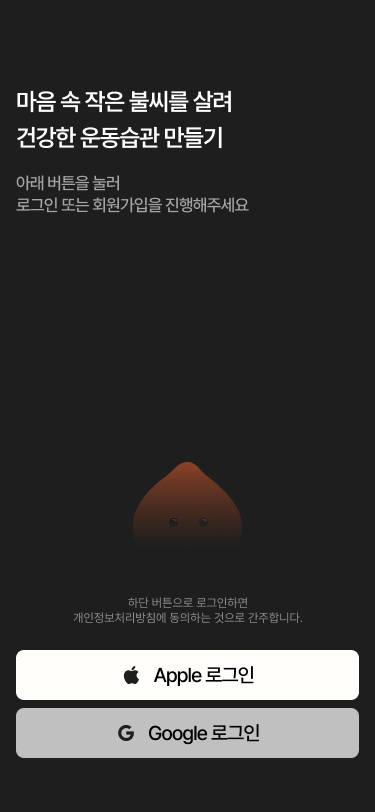
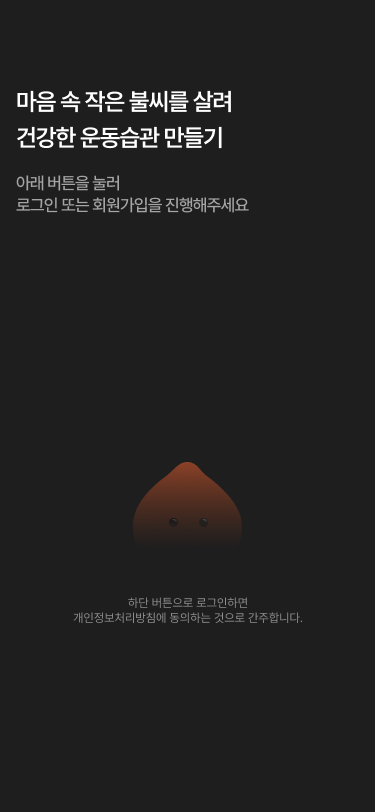
랜딩1페이지 수정 완료

Changed region(s): [[0.0293, 0.8005, 0.968, 0.9544]]

diff --git a/lib/pages/auth/landing_page.dart b/lib/pages/auth/landing_page.dart
@@ -1,5 +1,9 @@
 import 'package:flutter/material.dart';
 import 'package:go_router/go_router.dart';
+import 'package:provider/provider.dart';
+
+import '../../widgets/social_button.dart';
+import '../../viewmodels/auth_viewmodel.dart';
 
 class LandingPage extends StatelessWidget {
   const LandingPage({super.key});
@@ -9,75 +13,66 @@ class LandingPage extends StatelessWidget {
     return Scaffold(
       backgroundColor: const Color(0xFF121212),
       body: SafeArea(
-        child: Padding(
-          padding: const EdgeInsets.all(20),
-          child: Column(
-            crossAxisAlignment: CrossAxisAlignment.start,
-            children: [
-              const Spacer(),
-              Text(
-                "마음 속 작은 불씨를 살려\n건강한 운동습관 만들기",
-                style: Theme.of(
-                  context,
-                ).textTheme.headlineSmall?.copyWith(color: Colors.white),
+        child: Stack(
+          children: [
+            // ✔ 배경 이미지는 네가 준 sns_login.png를 그대로 사용
+            Positioned.fill(
+              child: Image.asset(
+                'assets/images/sns_login.png',
+                fit: BoxFit.cover,
               ),
-              const SizedBox(height: 24),
-              const Center(child: Text('🔥', style: TextStyle(fontSize: 96))),
-              const Spacer(),
-              _LoginBtn(
-                label: 'Apple 로그인',
-                onTap: () {
-                  /* TODO: 애플 로그인 */
-                },
-              ),
-              const SizedBox(height: 12),
-              _LoginBtn(
-                label: 'Google 로그인',
-                onTap: () {
-                  /* TODO: 구글 로그인 */
-                },
-                light: true,
-              ),
-              const SizedBox(height: 16),
-              SizedBox(
-                width: double.infinity,
-                child: OutlinedButton(
-                  onPressed: () => context.go('/onboarding/intro'),
-                  child: const Text('로그인 없이 시작하기'),
+            ),
+
+            // 하단 버튼/스킵 오버레이
+            Align(
+              alignment: Alignment.bottomCenter,
+              child: Padding(
+                padding: const EdgeInsets.fromLTRB(16, 0, 16, 16),
+                child: Column(
+                  mainAxisSize: MainAxisSize.min,
+                  children: [
+                    SocialButton.apple(
+                      label: 'Apple 로그인',
+                      onPressed: () {
+                        // TODO: signInWithApple() 연결
+                      },
+                      // iconAsset: 'assets/icons/apple.png',
+                    ),
+                    const SizedBox(height: 12),
+                    SocialButton.google(
+                      label: 'Google 로그인',
+                      onPressed: () {
+                        // TODO: signInWithGoogle() 연결
+                      },
+                      // iconAsset: 'assets/icons/google.png',
+                    ),
+                    const SizedBox(height: 8),
+                    // ✅ 맨 아래 Skip: 디바이스 온보딩 스킵 저장 후 홈으로
+                    TextButton(
+                      onPressed: () async {
+                        await context.read<AuthViewModel>().skipOnboarding();
+                        if (context.mounted) context.go('/home');
+                      },
+                      style: TextButton.styleFrom(
+                        padding: const EdgeInsets.symmetric(
+                          vertical: 6,
+                          horizontal: 12,
+                        ),
+                      ),
+                      child: const Text(
+                        '건너뛰기',
+                        style: TextStyle(
+                          color: Colors.white70,
+                          fontWeight: FontWeight.w600,
+                        ),
+                      ),
+                    ),
+                  ],
                 ),
               ),
-            ],
-          ),
+            ),
+          ],
         ),
-      ),
-    );
-  }
-}
-
-class _LoginBtn extends StatelessWidget {
-  final String label;
-  final VoidCallback onTap;
-  final bool light;
-  const _LoginBtn({
-    required this.label,
-    required this.onTap,
-    this.light = false,
-  });
-  @override
-  Widget build(BuildContext context) {
-    return SizedBox(
-      height: 52,
-      width: double.infinity,
-      child: ElevatedButton(
-        onPressed: onTap,
-        style: ElevatedButton.styleFrom(
-          backgroundColor: light ? Colors.white : Colors.black,
-          foregroundColor: light ? Colors.black : Colors.white,
-          shape: RoundedRectangleBorder(
-            borderRadius: BorderRadius.circular(12),
-          ),
-        ),
-        child: Text(label),
       ),
     );
   }

diff --git a/lib/widgets/social_button.dart b/lib/widgets/social_button.dart
@@ -1,0 +1,89 @@
+import 'package:flutter/material.dart';
+
+enum SocialBrand { apple, google }
+
+class SocialButton extends StatelessWidget {
+  final String label;
+  final VoidCallback onPressed;
+  final SocialBrand brand;
+
+  /// 브랜드 로고를 에셋으로 쓰고 싶으면 경로를 넘겨줘.
+  /// (없으면 기본 아이콘으로 표시)
+  final String? iconAsset;
+
+  final double height;
+  final double radius;
+
+  const SocialButton({
+    super.key,
+    required this.label,
+    required this.onPressed,
+    required this.brand,
+    this.iconAsset,
+    this.height = 52,
+    this.radius = 12,
+  });
+
+  /// 팩토리 생성자 (가독성)
+  factory SocialButton.apple({
+    Key? key,
+    required String label,
+    required VoidCallback onPressed,
+    String? iconAsset,
+  }) => SocialButton(
+    key: key,
+    label: label,
+    onPressed: onPressed,
+    brand: SocialBrand.apple,
+    iconAsset: iconAsset,
+  );
+
+  factory SocialButton.google({
+    Key? key,
+    required String label,
+    required VoidCallback onPressed,
+    String? iconAsset,
+  }) => SocialButton(
+    key: key,
+    label: label,
+    onPressed: onPressed,
+    brand: SocialBrand.google,
+    iconAsset: iconAsset,
+  );
+
+  @override
+  Widget build(BuildContext context) {
+    final isApple = brand == SocialBrand.apple;
+
+    // 스샷에 맞춘 기본 색
+    final bg = isApple ? Colors.white : const Color(0xFFE6E6E6);
+    final fg = Colors.black87;
+
+    Widget icon;
+    if (iconAsset != null) {
+      icon = Image.asset(iconAsset!, width: 20, height: 20);
+    } else {
+      // 에셋이 없다면 임시 아이콘(원하면 나중에 교체)
+      icon = Icon(isApple ? Icons.apple : Icons.g_mobiledata, size: 22);
+    }
+
+    return SizedBox(
+      height: height,
+      width: double.infinity,
+      child: ElevatedButton.icon(
+        onPressed: onPressed,
+        icon: icon,
+        label: Text(label),
+        style: ElevatedButton.styleFrom(
+          backgroundColor: bg,
+          foregroundColor: fg,
+          elevation: 0,
+          shape: RoundedRectangleBorder(
+            borderRadius: BorderRadius.circular(radius),
+          ),
+          textStyle: const TextStyle(fontWeight: FontWeight.w600),
+        ),
+      ),
+    );
+  }
+}
